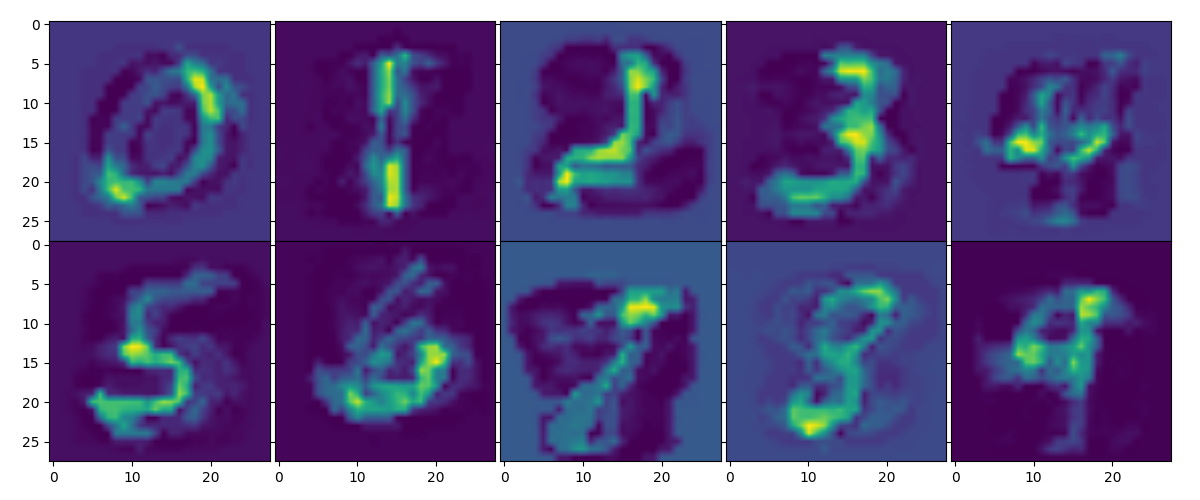
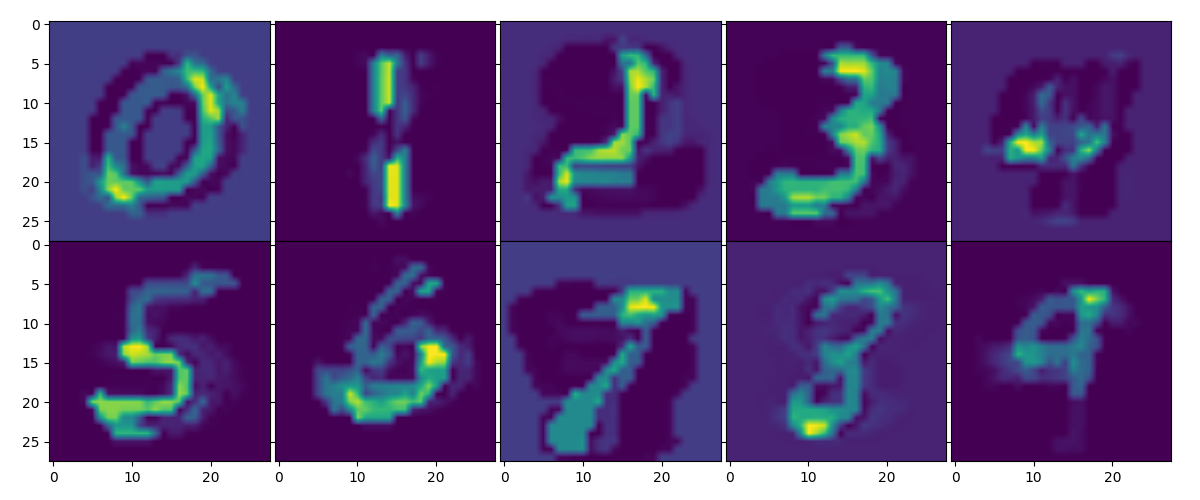
args

diff --git a/src/plot.py b/src/plot.py
@@ -1,4 +1,5 @@
 import matplotlib.pyplot as plt
+from persim import PersImage
 from tda import *
 
 def plot_mask(axis, x, f=fmask):
@@ -10,17 +11,22 @@ def plot_masks(axis, masks):
     return map(lambda (c,m): plot_mask(axis[c/5,c%5], m), masks.iteritems())
     # return [plot_mask(ax[c/5,c%5], m) for c,m in masks.iteritems()]
 
+pim = PersImage()
 def plot_dgm(axis, x, c=None, clear=False):
-    if clear:
-        axis.cla()
-    if c != None:
-        axis.scatter(x[:,0], x[:,1], c=c, s=5, alpha=0.5)
-    else:
-        axis.scatter(x[:,0], x[:,1], s=5, alpha=0.5)
+    img = pim.transform(x)
+    axis.imshow(img, interpolation="bilinear")
+    return img
+    # if clear:
+    #     axis.cla()
+    # if c != None:
+    #     axis.scatter(x[:,0], x[:,1], c=c, s=5, alpha=0.5)
+    # else:
+    #     axis.scatter(x[:,0], x[:,1], s=5, alpha=0.5)
 
 def plot_dgms(axis, dgms):
-    map(lambda (c,d): plot_dgm(axis[c/5,c%5], d, 'blue', True), dgms[0].iteritems())
-    map(lambda (c,d): plot_dgm(axis[c/5,c%5], d, 'red'), dgms[1].iteritems())
+    # map(lambda (c,d): plot_dgm(axis[c/5,c%5], d, 'blue', True), dgms[0].iteritems())
+    # map(lambda (c,d): plot_dgm(axis[c/5,c%5], d, 'red'), dgms[1].iteritems())
+    map(lambda (c,d): plot_dgm(axis[c/5,c%5], d), dgms[1].iteritems())
     # return [plot_mask(ax[c/5,c%5], m) for c,m in masks.iteritems()]
 
 plt.ion()

diff --git a/src/tda.py b/src/tda.py
@@ -1,6 +1,7 @@
 from args import DIMS, DIM, DIR
 from ripser import ripser
 from mnist import MNIST
+from functools import partial
 #import persim, umap
 import numpy as np
 import warnings
@@ -32,14 +33,15 @@ def get_masks(data, dims=DIMS):
     D = {d : {c : fmap(R[c], d) for c in C} for d in dims}
     return {'keys' : C, 'data' : data, 'diagrams' : D, 'barcodes' : B} #, 'cocycles' : G}
 
-def to_mask(dgm, l=0.0, n=28*28):
-    return [dgm['t'] if i in dgm['cycles'] else l for i in range(n)]
+def to_mask(dgm, k=100, l=0.0, f=lambda x: x ** 2, n=28*28):
+    c = dgm['cycles'] if len(dgm['cycles']) < k else dgm['cycles'][:k]
+    return [f(dgm['t']) if i in dgm['cycles'][:k] else l for i in range(n)]
 
-def make_masks(dgm):
-    return np.vstack(map(to_mask, dgm)).reshape(-1,28,28)
+def make_masks(dgm, k=100, l=0.0, f=lambda x: x ** 2):
+    return np.vstack(map(lambda x: to_mask(x, k, l, f), dgm)).reshape(-1,28,28)
 
 def fmask(x):
     return np.sum(x, axis=0)
 
-def build_masks(jdict, dim=DIM):
-    return {c : make_masks(jdict['diagrams'][dim][c]) for c in jdict['keys']}
+def build_masks(jdict, dim=DIM, k=100, l=0.0, f=lambda x: x ** 2):
+    return {c : make_masks(jdict['diagrams'][dim][c], k ,l, f) for c in jdict['keys']}

diff --git a/src/args.py b/src/args.py
@@ -1,5 +1,6 @@
 import argparse
 
+K = -1
 DIMS = 1
 DIM = DIMS
 DIR = 'mnist'
@@ -8,5 +9,6 @@ parser = argparse.ArgumentParser(description='mnist persistence.')
 parser.add_argument('-D', '--dims', type=int, default=DIMS, help='max dimension. default: %d' % DIMS)
 parser.add_argument('-d', '--dim', type=int, default=DIM, help='analysis dimension. default: %d' % DIM)
 parser.add_argument('--dir', default=DIR, help='source data directory. default: %s' % DIR)
+parser.add_argument('-k','--k', type=int, default=K, help='number of features to use. default: %s' % K)
 # parser.add_argument('-t', '--transpose', action='store_false', help='sample space persistence (no transpose)')
 # parser.add_argument('-','--dims', type=int, nargs='+', default=[0,1], help='')

diff --git a/main.py b/main.py
@@ -10,7 +10,7 @@ def main(args, data='train'):
     print('[ getting masks in dimension 0-%d' % args.dims)
     jdict = tda.get_masks(train, args.dims)
     print('[ building masks in dimension %d' % args.dim)
-    jdict['masks'] = tda.build_masks(jdict, args.dim)
+    jdict['masks'] = tda.build_masks(jdict, args.dim, args.k)
 
     plot_dgms(ax[0], jdict['barcodes'])
     plot_masks(ax[1], jdict['masks'])
